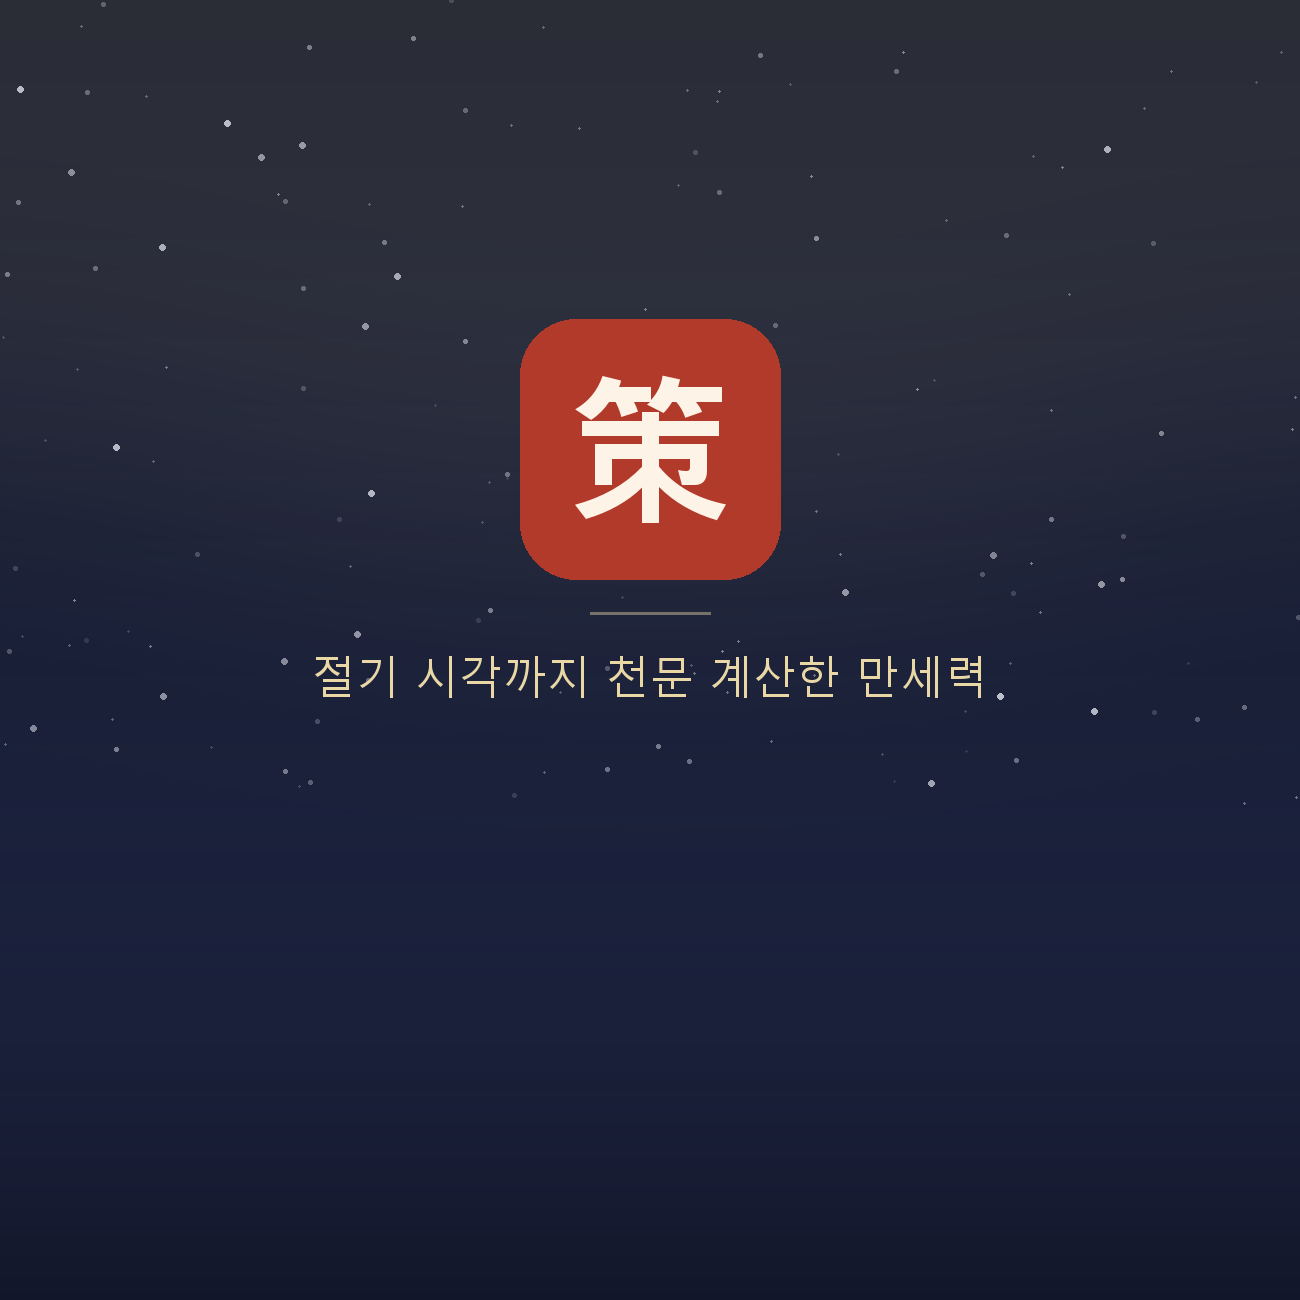
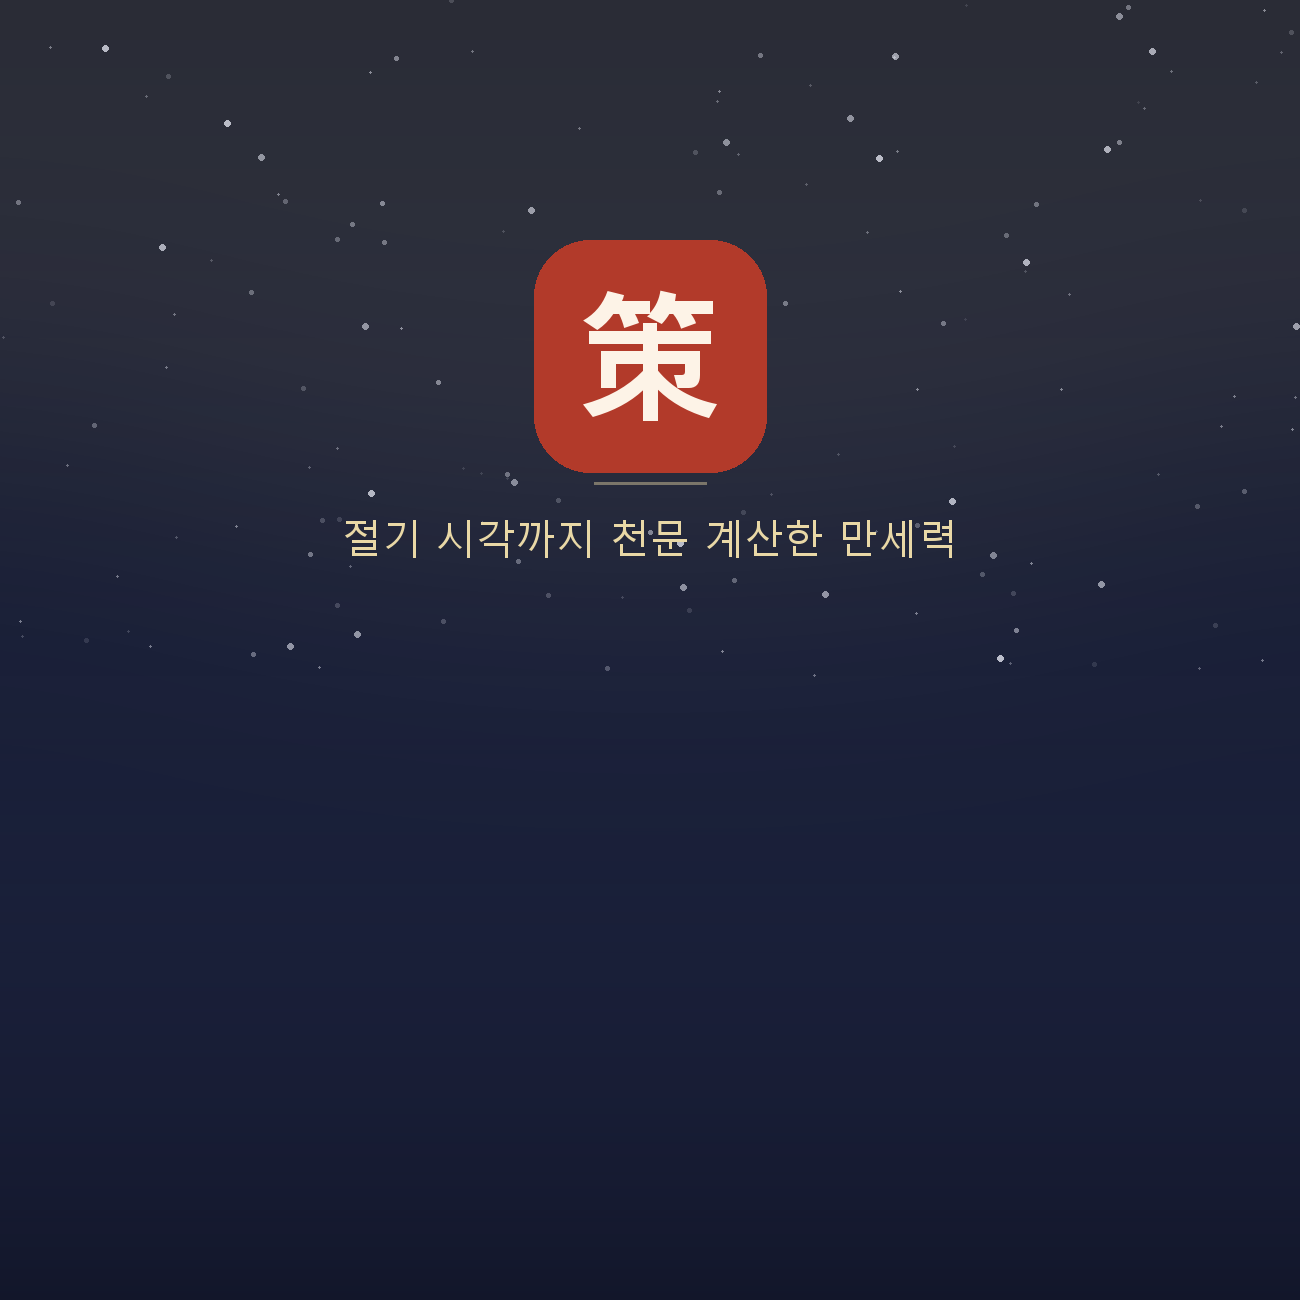
모바일 커버를 위 45% 안으로 — 실기기가 계산을 뒤집었다
6:5·4:3·16:9로 잘라 보고 24~56%가 안전하다고 판단했는데, 실기기에서는
커버가 폭에 맞춰 거의 정사각으로 뜨고 네이버 덩어리(방문수·블로그명·프로필·
버튼줄)가 아래 절반을 먹는다. 태그라인이 '오늘 37 · 전체 3,502'와 정면으로
겹쳤다.

그림이 쓸 수 있는 자리는 위 45%뿐이다. 인장 18~36%, 한 줄 40%로 옮기고
어두운 깔개도 46%부터 시작하게 했다. 스크린샷에서 잰 자리로 확인본을 만들어
대조했다 — 비율 추정으로는 못 잡는 종류였다.

diff --git a/tools_og.py b/tools_og.py
@@ -238,9 +238,11 @@ def mobile_cover():
     그래서 한지 크림색을 쓰면 글자가 안 읽힌다 — 여기만 밤 테마로 간다.
     앱의 밤 배경(style.css의 data-theme=night)과 같은 남색이다.
 
-    커버 스타일마다 비율이 달라 가운데를 잘라 쓴다. 6:5 · 4:3 · 16:9 로 잘라
-    흰 글씨를 얹어 보고 세 경우 모두 안전한 띠를 찾았다 — 세로 24~56% 다.
-    처음엔 태그라인을 60%에 뒀는데 16:9 에서 네이버 글자와 겹쳤다.
+    실기기에서 커버는 폭에 맞춰 **거의 정사각**으로 뜨고, 네이버가 얹는 덩어리
+    (방문수 · 블로그명 · 프로필 · 버튼줄)가 **아래 절반**을 먹는다.
+    그래서 그림이 쓸 수 있는 자리는 위 45% 뿐이다.
+    처음엔 16:9로 잘릴 것을 가정해 24~56%에 뒀는데, 실물에서 태그라인이
+    '오늘 37 · 전체 3,502' 줄과 정면으로 겹쳤다. 계산보다 실기기가 맞다.
     아래쪽은 네이버 글자 자리라 비우고 어둡게 깐다.
 
     인장은 붉은색을 그대로 쓴다. 앱은 밤에 금색 인장으로 바뀌지만,
@@ -275,33 +277,33 @@ def mobile_cover():
     # 별 — 천문 계산으로 본다는 말을 그림이 대신한다. 자리는 고정한다(매번 달라지면 안 된다)
     rnd = random.Random(20270105)
     for _ in range(150):
-        x, y = rnd.randint(0, S), rnd.randint(0, int(S * 0.62))
+        x, y = rnd.randint(0, S), rnd.randint(0, int(S * 0.52))
         r = rnd.choice([1, 1, 1, 2, 2, 3])
         a = rnd.randint(30, 130) if r < 3 else rnd.randint(120, 200)
         d.ellipse([x - r, y - r, x + r, y + r], fill=(233, 235, 246, a))
 
     # 인장 — 세로 40% 언저리
-    sw = 260
-    sx, sy = (S - sw) // 2, int(S * 0.246)
+    sw = 232
+    sx, sy = (S - sw) // 2, int(S * 0.185)
     d.rounded_rectangle([sx, sy, sx + sw, sy + sw], radius=56, fill=SEAL)
-    f = font('malgunbd.ttf', 162)
+    f = font('malgunbd.ttf', 144)
     box = d.textbbox((0, 0), '策', font=f)
     d.text((S / 2 - (box[2] - box[0]) / 2 - box[0],
             sy + (sw - (box[3] - box[1])) / 2 - box[1]),
            '策', font=f, fill=(253, 243, 231))
 
     # 한 줄 — 블로그명은 네이버가 얹으니 여기 또 쓰지 않는다
-    f2 = font('malgun.ttf', 44)
+    f2 = font('malgun.ttf', 40)
     t = '절기 시각까지 천문 계산한 만세력'
-    d.text((S / 2 - d.textlength(t, font=f2) / 2, int(S * 0.497)), t, font=f2, fill=GOLD)
-    d.line([S / 2 - 60, int(S * 0.472), S / 2 + 60, int(S * 0.472)],
+    d.text((S / 2 - d.textlength(t, font=f2) / 2, int(S * 0.393)), t, font=f2, fill=GOLD)
+    d.line([S / 2 - 56, int(S * 0.372), S / 2 + 56, int(S * 0.372)],
            fill=GOLD + (110,), width=3)
 
     # 아래쪽은 네이버가 흰 글씨를 얹는 자리 — 어둡게 깔아 대비를 만든다
     shade = Image.new('L', (S, S), 0)
     sp = shade.load()
     for y in range(S):
-        t2 = max(0.0, (y / S - 0.56) / 0.44)
+        t2 = max(0.0, (y / S - 0.46) / 0.54)
         for x in range(0, S, 1):
             sp[x, y] = int(150 * t2 * t2)
     img = Image.composite(Image.new('RGB', (S, S), (8, 10, 22)), img, shade)
